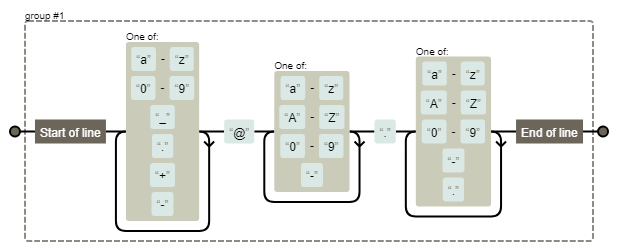
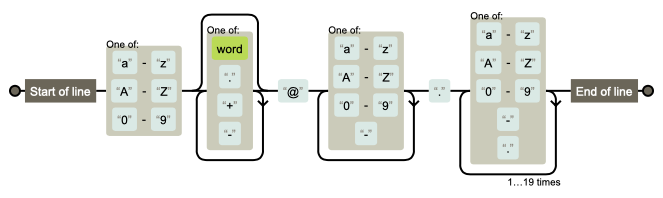
Intermediate: Regex #time 60m

diff --git a/regex/src/re-example-1.py b/regex/src/re-example-1.py
@@ -15,8 +15,13 @@ entries = re.split('\n+', TEXT)
 # 'Frank Burger: 925.541.7625 662 South Dogwood Way',
 # 'Heather Albrecht: 548.326.4584 919 Park Place']
 
-[re.split(':? ', entry, 3) for entry in entries]
+out = [re.split(':?\s', entry, maxsplit=3) for entry in entries]
 # [['Ross', 'McFluff', '834.345.1254', '155 Elm Street'],
 # ['Ronald', 'Heathmore', '892.345.3428', '436 Finley Avenue'],
 # ['Frank', 'Burger', '925.541.7625', '662 South Dogwood Way'],
 # ['Heather', 'Albrecht', '548.326.4584', '919 Park Place']]
+
+#addresses = {fname, lname, phone, address in out}
+
+from pprint import pprint
+pprint(out)

diff --git a/regex/src/re-multiline.py b/regex/src/re-multiline.py
@@ -1,12 +1,16 @@
 import re
 
 
-COMMIT_MESSAGE = """Fixed #27533 -- Fixed inspectdb crash if a unique constraint uses an … #31337
- …unsupported type."""
+PATTERN = r'^#[0-9]+'
 
-re.findall(r'#[0-9]+', COMMIT_MESSAGE, flags=re.MULTILINE)
-# ['#23919', '#31337']
+TEXT = """
+#27533 Fixed inspectdb crash;
+#31337 Remove commented out code
+"""
 
-issues = re.compile(r'#[0-9]+', flags=re.MULTILINE)
-issues.findall(COMMIT_MESSAGE)
-# ['#23919', '#31337']
+
+re.findall(PATTERN, TEXT)
+# []
+
+re.findall(PATTERN, TEXT, flags=re.MULTILINE)
+# ['#27533', '#31337']

diff --git a/regex/src/re-match.py b/regex/src/re-match.py
@@ -1,6 +1,6 @@
 import re
 
-VALID_EMAIL = r'^[a-zA-Z0-9][\w.+-]*@[a-zA-Z0-9-]+\.[a-zA-Z0-9-.]{2,}$'
+PATTERN = r'^[a-zA-Z0-9][\w.+-]*@[a-zA-Z0-9-]+\.[a-zA-Z0-9-.]{2,20}$'
 
 
 def is_valid_email(email: str) -> bool:
@@ -24,7 +24,7 @@ def is_valid_email(email: str) -> bool:
     >>> is_valid_email('jose.jimenez@nasa.g')
     False
     """
-    if re.match(VALID_EMAIL, email):
+    if re.match(PATTERN, email):
         return True
     else:
         return False

diff --git a/regex/src/re-compile-yes.py b/regex/src/re-compile-yes.py
@@ -1,0 +1,20 @@
+import re
+
+
+DATABASE = [
+    'jose.jimenez@nasa.gov',
+    'Jose.Jimenez@nasa.gov',
+    '+jose.jimenez@nasa.gov',
+    'jose.jimenez+@nasa.gov',
+    'jose.jimenez+newsletter@nasa.gov',
+    'jose.jimenez@.gov',
+    '@nasa.gov',
+    'jose.jimenez@nasa.g',
+]
+
+PATTERN = re.compile(r'^[a-zA-Z0-9][\w.+-]*@[a-zA-Z0-9-]+\.[a-zA-Z0-9-.]{2,}$')
+
+
+for email in DATABASE:
+    PATTERN.match(email)
+

diff --git a/regex/src/re-compile-no.py b/regex/src/re-compile-no.py
@@ -1,0 +1,19 @@
+import re
+
+
+DATABASE = [
+    'jose.jimenez@nasa.gov',
+    'Jose.Jimenez@nasa.gov',
+    '+jose.jimenez@nasa.gov',
+    'jose.jimenez+@nasa.gov',
+    'jose.jimenez+newsletter@nasa.gov',
+    'jose.jimenez@.gov',
+    '@nasa.gov',
+    'jose.jimenez@nasa.g',
+]
+
+PATTERN = r'^[a-zA-Z0-9][\w.+-]*@[a-zA-Z0-9-]+\.[a-zA-Z0-9-.]{2,}$'
+
+
+for email in DATABASE:
+    re.match(PATTERN, email)

diff --git a/regex/src/re-group.py b/regex/src/re-group.py
@@ -1,19 +1,16 @@
 import re
 
 PATTERN = r'(?P<first_name>\w+) (?P<last_name>\w+)'
-matches = re.match(PATTERN, 'José Jiménez')
+TEXT = 'José Jiménez'
+
+matches = re.match(PATTERN, TEXT)
+
 
 matches.group('first_name')
 # 'José'
 
 matches.group('last_name')
 # 'Jiménez'
-
-matches.group()
-# 'José Jiménez'
-
-matches.group(0)
-# 'José Jiménez'
 
 matches.group(1)
 # 'José'

diff --git a/regex/src/re-search.py b/regex/src/re-search.py
@@ -2,8 +2,8 @@ import re
 
 
 PATTERN = r'#[0-9]+'  # used for redmine and track issue id
-COMMIT_MESSAGE = "Refs #23919, #31337 -- Removed obsolete comments about u'' prefixes."
+TEXT = "Refs #23919, #31337 -- Removed obsolete comments about u'' prefixes."
 
 
-re.search(PATTERN, COMMIT_MESSAGE).group()
+re.search(PATTERN, TEXT).group()
 # '#23919'

diff --git a/regex/src/re-comparision.py b/regex/src/re-comparision.py
@@ -1,9 +1,15 @@
 import re
 
-# used for redmine and track issue id
+
 PATTERN = r'#[0-9]+'
 TEXT = "Refs #23919, #31337 Removed obsolete comments"
 
 
 re.findall(PATTERN, TEXT)
 # ['#23919', '#31337']
+
+re.search(PATTERN, TEXT).group()
+# '#23919'
+
+re.match(PATTERN, TEXT)
+# None

diff --git a/regex/src/re-greedy.py b/regex/src/re-greedy.py
@@ -1,9 +1,9 @@
 import re
 
-text = '<strong>Ehlo World</strong>'
+TEXT = '<strong>Ehlo World</strong>'
 
-re.findall(r'<.*>', text)
+re.findall(r'<.*>', TEXT)
 # ['<strong>Ehlo World</strong>']
 
-re.findall(r'<.*?>', text)
+re.findall(r'<.*?>', TEXT)
 # ['<strong>', '</strong>']

diff --git a/regex/src/re-sub.py b/regex/src/re-sub.py
@@ -1,4 +1,9 @@
 import re
 
-re.sub(r'\sAND\s', ' & ', 'Baked Beans And Spam', flags=re.IGNORECASE)
+
+PATTERN = r'\s[a-z]{3}\s'
+TEXT = 'Baked Beans And Spam'
+
+
+re.sub(PATTERN, ' & ', TEXT, flags=re.IGNORECASE)
 # 'Baked Beans & Spam'

diff --git a/regex/src/re-split.py b/regex/src/re-split.py
@@ -1,4 +1,8 @@
 import re
 
-re.split(r'\sAND\s', 'Baked Beans And Spam', flags=re.IGNORECASE)
+PATTERN = r'\s[a-z]{3}\s'
+TEXT = 'Baked Beans And Spam'
+
+
+re.split(PATTERN, TEXT, flags=re.IGNORECASE)
 # ['Baked Beans', 'Spam']

diff --git a/regex/index.rst b/regex/index.rst
@@ -6,6 +6,18 @@ Regular Expressions
 Constructing Regular Expressions
 ================================
 
+Visualizing RegExps
+-------------------
+* https://regexper.com/
+* https://regex101.com/
+* ``r'^[a-zA-Z0-9][\w.+-]*@[a-zA-Z0-9-]+\.[a-zA-Z0-9-.]{2,20}$'``
+
+.. figure:: img/regexp-vizualization.png
+    :scale: 100%
+    :align: center
+
+    Visualization for pattern ``r'^[a-zA-Z0-9][\w.+-]*@[a-zA-Z0-9-]+\.[a-zA-Z0-9-.]{2,20}$'``
+
 Regular Expression Syntax
 -------------------------
 .. csv-table:: Regular Expression Syntax
@@ -13,15 +25,12 @@ Regular Expression Syntax
     :file: data/re-syntax.csv
     :widths: 25, 75
 
-Visualizing RegExps
--------------------
-* https://regexper.com/
-* https://regex101.com/
-
-.. figure:: img/regexp-vizualization.png
-    :name: figure-regexp-vizualization
-    :scale: 100%
-    :align: center
+Regex Flags
+-----------
+.. csv-table:: Regular Expression Flags
+    :header-rows: 1
+    :file: data/re-flags.csv
+    :widths: 25, 75
 
 
 Most frequent used functions in ``re`` module
@@ -30,73 +39,71 @@ Most frequent used functions in ``re`` module
 ``re.match()``
 --------------
 .. literalinclude:: src/re-match.py
-    :name: listing-re-match
     :language: python
     :caption: Usage of ``re.match()``
 
 ``re.search()``
 ---------------
 .. literalinclude:: src/re-search.py
-    :name: listing-re-search()
     :language: python
     :caption: Usage of ``re.search()``
 
 ``re.findall()`` and ``re.finditer()``
 --------------------------------------
 .. literalinclude:: src/re-find.py
-    :name: listing-re-find
     :language: python
     :caption: Usage of ``re.findall()`` and ``re.finditer()``
 
 ``re.compile()``
 ----------------
-.. literalinclude:: src/re-compile.py
-    :name: listing-re-compile
+.. literalinclude:: src/re-compile-no.py
     :language: python
-    :caption: Usage of compile
+    :caption: Compiles at every loop iteration, and then matches
+
+.. literalinclude:: src/re-compile-yes.py
+    :language: python
+    :caption: Compiling before loop, hence matching only inside
 
 ``re.sub()``
 ------------
 .. literalinclude:: src/re-sub.py
-    :name: listing-re-sub
     :language: python
     :caption: Usage of ``re.sub()``
 
 ``re.split()``
 --------------
 .. literalinclude:: src/re-split.py
-    :name: listing-re-split
     :language: python
     :caption: Usage of ``re.split()``
 
-
-Regex Flags
-===========
-.. csv-table:: Regular Expression Flags
-    :header-rows: 1
-    :file: data/re-flags.csv
-    :widths: 25, 75
-
-.. literalinclude:: src/re-multiline.py
-    :name: listing-re-regexp
+Comparision between ``re.match()``, ``re.search()`` and ``re.findall()``
+------------------------------------------------------------------------
+.. literalinclude:: src/re-comparision.py
     :language: python
-    :caption: Usage of regexp
+    :caption: Comparision between ``re.match()``, ``re.search()`` and ``re.findall()``
 
 
 RegEx parameters (variables)
 ============================
 .. literalinclude:: src/re-group.py
-    :name: listing-re-group
     :language: python
     :caption: Usage of group in ``re.match()``
 
 
+Multi line searches
+===================
+.. literalinclude:: src/re-multiline.py
+    :language: python
+    :caption: Usage of regexp
+
+
 Greedy and non-greedy search
 ============================
-The '*', '+', and '?' qualifiers are all greedy; they match as much text as possible. Sometimes this behaviour isn’t desired; if the RE <.*> is matched against '<a> b <c>', it will match the entire string, and not just '<a>'. Adding ? after the qualifier makes it perform the match in non-greedy or minimal fashion; as few characters as possible will be matched. Using the RE <.*?> will match only '<a>'.
+* greedy qualifiers: ``*``, ``+``, ``?``
+* they match as much text as possible
+* Adding ``?`` after the qualifier makes it non-greedy
 
 .. literalinclude:: src/re-greedy.py
-    :name: listing-re-greedy
     :language: python
     :caption: Usage of greedy and non-greedy search in ``re.findall()``
 
@@ -107,21 +114,18 @@ Practical example of Regex usage
 Making a Phonebook
 ------------------
 .. literalinclude:: src/re-example-1.py
-    :name: listing-re-example-1
     :language: python
     :caption: Practical example of Regex usage
 
 Finding all Adverbs
 -------------------
 .. literalinclude:: src/re-example-2.py
-    :name: listing-re-example-2
     :language: python
     :caption: Finding all Adverbs
 
 Writing a Tokenizer
 -------------------
 .. literalinclude:: src/re-example-3.py
-    :name: listing-re-example-3
     :language: python
     :caption: Writing a Tokenizer.
 
@@ -137,6 +141,7 @@ Parsing text from webpage
 -------------------------
 #. Dla listingu poniżej
 #. Za pomocą regexpów wytnij tekst fragmentu przemówienia JFK
+#. Zwróć pierwszy paragraf tekstu przemówienia zaczynający się od słów "We choose to go to the moon"
 
 :About:
     * Filename: ``regex_html.py``
